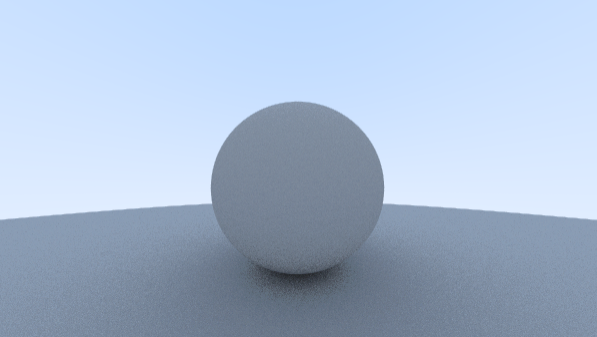
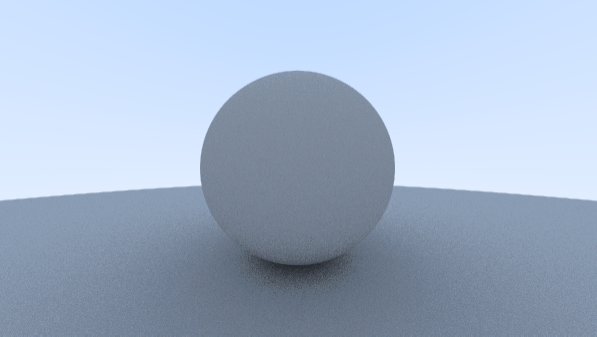
Add new blog entry

Changed region(s): [[0.0, 0.2077, 1.0, 0.6528], [0.392, 0.7418, 0.603, 0.8605]]

diff --git a/src/blog/lambertian.md b/src/blog/lambertian.md
@@ -1,0 +1,16 @@
+---
+layout: layouts/blog.html
+title: Fixed the lambertian reflection!
+tags: ["blog", "webgl", "Ray tracing"]
+date: "2022-07-06"
+---
+
+Finally, I managed to get the lambertian reflection to work! I found a working [glsl shader implementation](https://www.shadertoy.com/view/llVcDz) of the weekend ray tracer that I could compare my code to which helped me. First of, I replaced the functions I had for generating pseudo random numbers with the one from that code. Troubleshooting that code is not easy so using something I know works seemed like a better idea. I then compared their code with mine and two major issues, one was the way I was iterating over the ray hits.
+
+In the Ray Tracing in one Weekend book it's done recursively but that's not possible in webGL and my implementation had some problem so I had to change it slightly. I was trying to sum the effects of each iteration on the color in one variable and then multiply the color by the final result, but now I instead just set the color to all white at the start and then multiply it by 0.5 each iteration where it hits something.
+
+The second problem was that in the same function, but when I did not register a hit I set the color to be the color of the background (or the sky), but I should of course multiply the accumulated color with the color of the background.
+
+![Frustration](../images/lambertian.png "Lambertian reflection!")
+
+Something else I've done is to move the antialiasing loop out of the shader code. Instead I draw the result to a texture that I can render to the canvas. I have another texture that I read from inside the shader and I switch between these textures so in one iteration I'm reading the previously rendered texture from one of them and drawing to the other, "ping-ponging" between the textures. On each iteration I add a little less of the new rendering and a little more of the old and since I'm always adding a little bit of randomness to the rays that are cast the image gets finer and finer. I got the idea from [this](https://madebyevan.com/webgl-path-tracing/).
